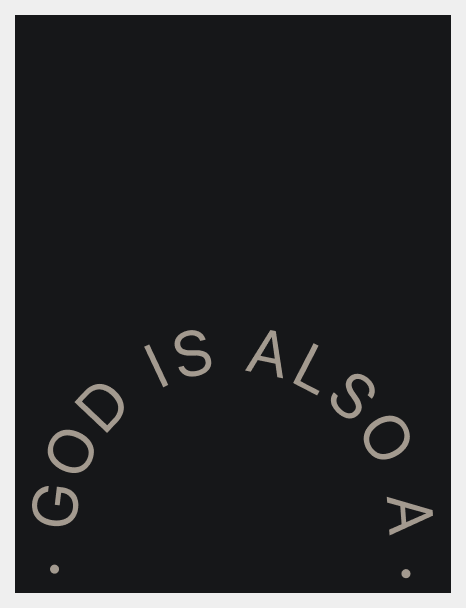
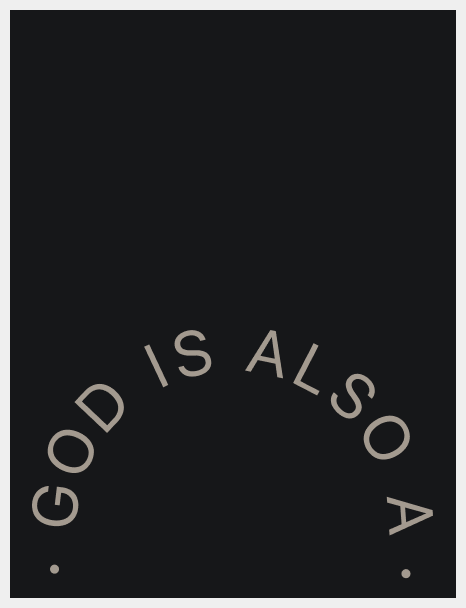
비전

Changed region(s): [[0.0, 0.0, 0.9914, 1.0]]

diff --git a/css/styles.css b/css/styles.css
@@ -504,12 +504,11 @@ main {
 
 /* 3. 개별 카드 설정 */
 .card {
-    width: 460px;
+    width: 455px;
     height: auto;
     position: relative;
     transform-style: preserve-3d;
     cursor: pointer;
-    border-radius: 4px;
     flex-shrink: 0;
 
 }
@@ -520,7 +519,6 @@ main {
     height: auto;
     object-fit: cover;
     display: block;
-    border-radius: 4px;
 }
 
 /* 앞면/뒷면 공통 */
